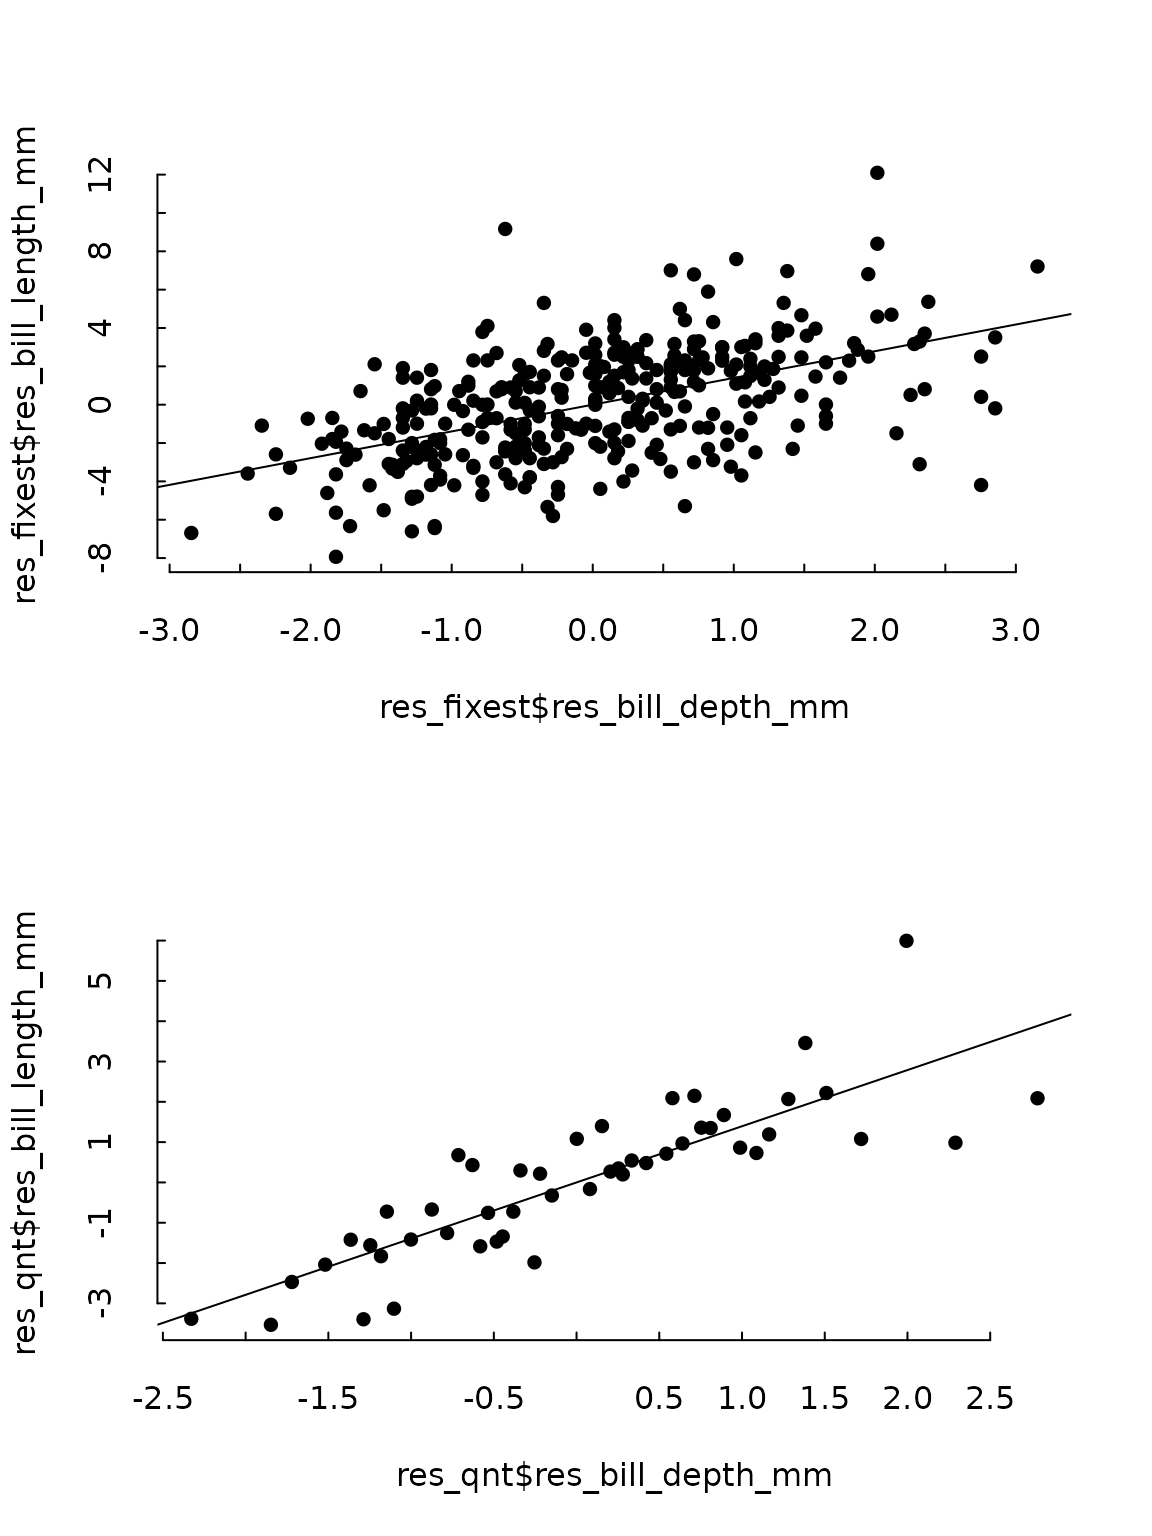
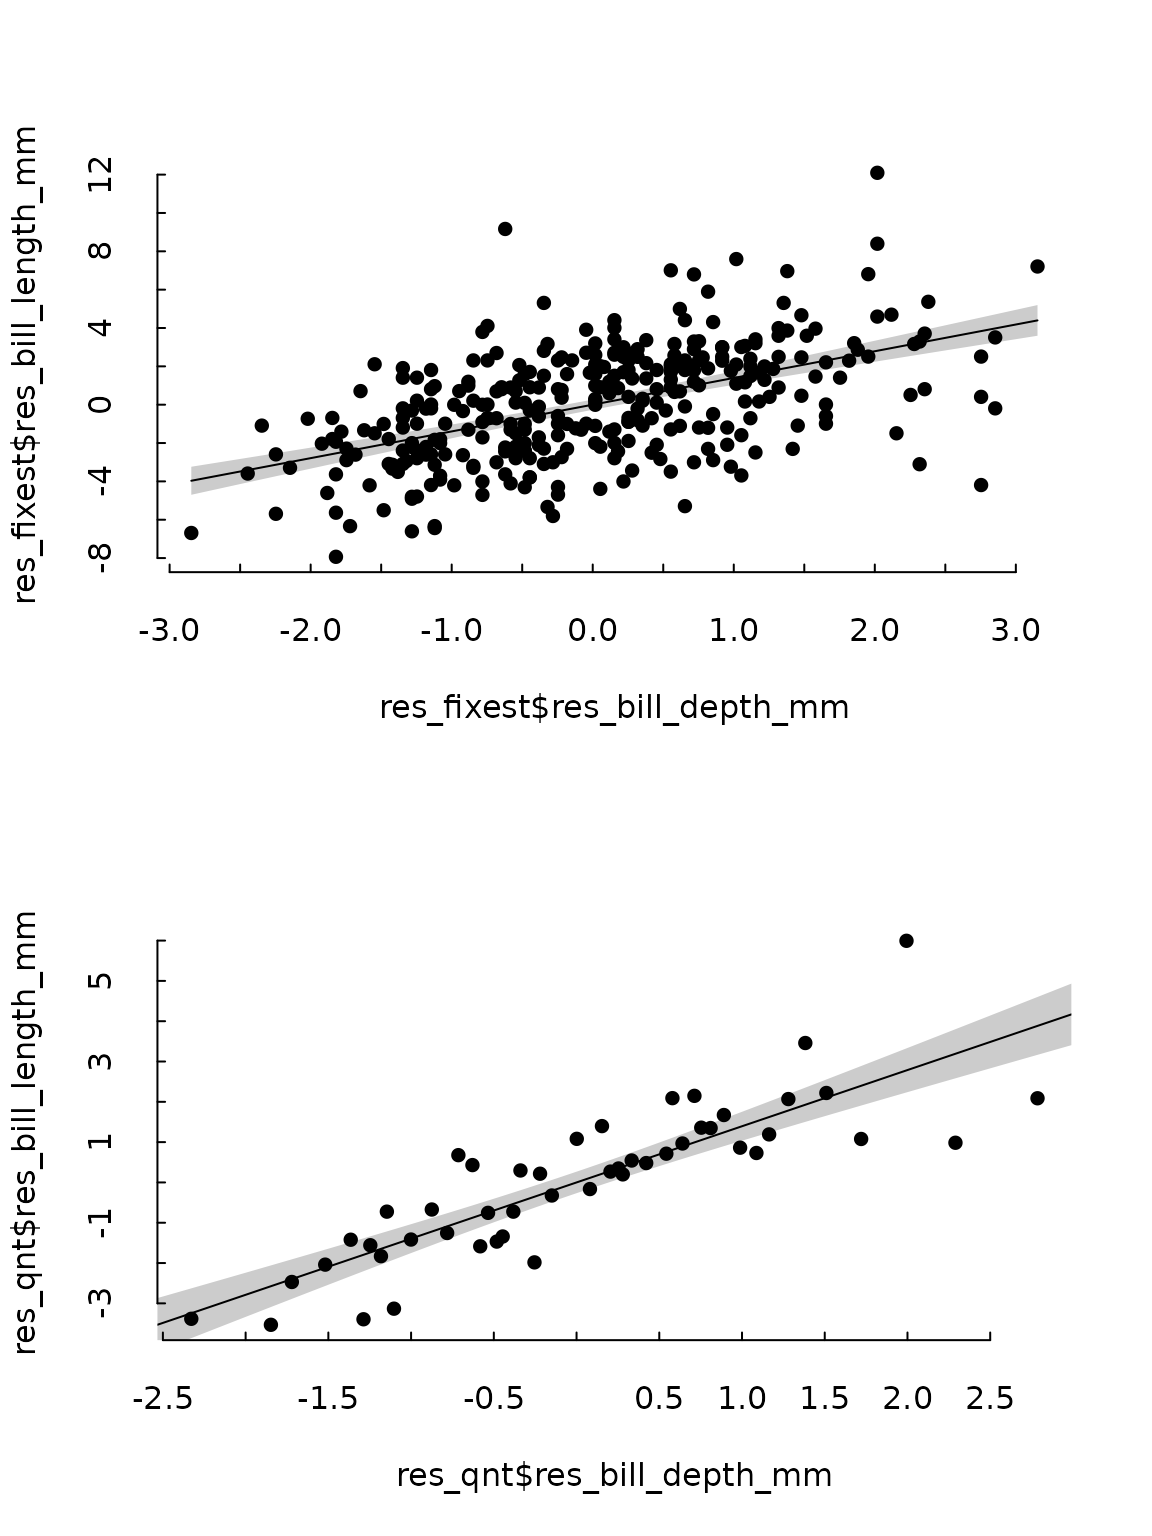
Deploying to gh-pages from @ marcboschmatas/partialling.out@54f5e9423f608f626608cb4d03b946a12f313515 🚀

diff --git a/articles/partialling_out.html b/articles/partialling_out.html
@@ -99,9 +99,9 @@
 <span><span class="co">#&gt; Multiple R-squared:  0.7892, Adjusted R-squared:  0.7874 </span></span>
 <span><span class="co">#&gt; F-statistic: 421.9 on 3 and 338 DF,  p-value: &lt; 2.2e-16</span></span></code></pre></div>
 <p>Using the <code>partialling_out</code> function, you can get the
-residualised variable of interest (bill length) and of the first
-explanatory variable (bill_length), i.e. it would return the residuals
-of the following two regressions.</p>
+residualised variable of interest (<code>bill_length_mm</code>) and of
+the first explanatory variable (<code>bill_depth_mm</code>), i.e. it
+would return the residuals of the following two regressions.</p>
 <div class="sourceCode" id="cb2"><pre class="downlit sourceCode r">
 <code class="sourceCode R"><span></span>
 <span><span class="va">modely</span> <span class="op">&lt;-</span> <span class="fu"><a href="https://rdrr.io/r/stats/lm.html" class="external-link">lm</a></span><span class="op">(</span><span class="va">bill_length_mm</span> <span class="op">~</span> <span class="va">species</span>, data <span class="op">=</span> <span class="va">penguins</span><span class="op">)</span></span>
@@ -110,7 +110,8 @@ of the following two regressions.</p>
 <div class="sourceCode" id="cb3"><pre class="downlit sourceCode r">
 <code class="sourceCode R"><span><span class="va">res</span> <span class="op">&lt;-</span> <span class="fu"><a href="../reference/partialling_out.html">partialling_out</a></span><span class="op">(</span><span class="va">model</span>, data <span class="op">=</span> <span class="va">penguins</span><span class="op">)</span></span>
 <span></span>
-<span><span class="fu"><a href="https://vincentarelbundock.github.io/tinytable/man/tt.html" class="external-link">tt</a></span><span class="op">(</span><span class="fu"><a href="https://rdrr.io/r/utils/head.html" class="external-link">head</a></span><span class="op">(</span><span class="va">res</span><span class="op">)</span><span class="op">)</span></span></code></pre></div>
+<span><span class="fu"><a href="https://vincentarelbundock.github.io/tinytable/man/tt.html" class="external-link">tt</a></span><span class="op">(</span><span class="fu"><a href="https://rdrr.io/r/utils/head.html" class="external-link">head</a></span><span class="op">(</span><span class="va">res</span><span class="op">)</span><span class="op">)</span> <span class="op">|&gt;</span></span>
+<span>  <span class="fu"><a href="https://vincentarelbundock.github.io/tinytable/man/format_tt.html" class="external-link">format_tt</a></span><span class="op">(</span>digits <span class="op">=</span> <span class="fl">2</span><span class="op">)</span></span></code></pre></div>
 <!-- preamble start -->
 
     <script>
@@ -189,28 +190,28 @@ of the following two regressions.</p>
               </tr></thead>
 <tbody>
 <tr>
-<td>0.3086093</td>
-                  <td>0.3536424</td>
+<td>0.31</td>
+                  <td>0.35</td>
                 </tr>
 <tr>
-<td>0.7086093</td>
-                  <td>-0.9463576</td>
+<td>0.71</td>
+                  <td>-0.95</td>
                 </tr>
 <tr>
-<td>1.5086093</td>
-                  <td>-0.3463576</td>
+<td>1.51</td>
+                  <td>-0.35</td>
                 </tr>
 <tr>
-<td>-2.0913907</td>
-                  <td>0.9536424</td>
+<td>-2.09</td>
+                  <td>0.95</td>
                 </tr>
 <tr>
-<td>0.5086093</td>
-                  <td>2.2536424</td>
+<td>0.51</td>
+                  <td>2.25</td>
                 </tr>
 <tr>
-<td>0.1086093</td>
-                  <td>-0.5463576</td>
+<td>0.11</td>
+                  <td>-0.55</td>
                 </tr>
 </tbody>
 </table>
@@ -229,7 +230,8 @@ original model.</p>
 <p>If <code>both</code> is set to <code>FALSE</code>, the function will
 return the actual Y values and the residualised X values.</p>
 <div class="sourceCode" id="cb5"><pre class="downlit sourceCode r">
-<code class="sourceCode R"><span><span class="fu"><a href="https://vincentarelbundock.github.io/tinytable/man/tt.html" class="external-link">tt</a></span><span class="op">(</span><span class="fu"><a href="https://rdrr.io/r/utils/head.html" class="external-link">head</a></span><span class="op">(</span><span class="fu"><a href="../reference/partialling_out.html">partialling_out</a></span><span class="op">(</span><span class="va">model</span>, <span class="va">penguins</span>, both <span class="op">=</span> <span class="cn">FALSE</span><span class="op">)</span><span class="op">)</span><span class="op">)</span></span></code></pre></div>
+<code class="sourceCode R"><span><span class="fu"><a href="https://vincentarelbundock.github.io/tinytable/man/tt.html" class="external-link">tt</a></span><span class="op">(</span><span class="fu"><a href="https://rdrr.io/r/utils/head.html" class="external-link">head</a></span><span class="op">(</span><span class="fu"><a href="../reference/partialling_out.html">partialling_out</a></span><span class="op">(</span><span class="va">model</span>, <span class="va">penguins</span>, both <span class="op">=</span> <span class="cn">FALSE</span><span class="op">)</span><span class="op">)</span><span class="op">)</span> <span class="op">|&gt;</span></span>
+<span>  <span class="fu"><a href="https://vincentarelbundock.github.io/tinytable/man/format_tt.html" class="external-link">format_tt</a></span><span class="op">(</span>digits <span class="op">=</span> <span class="fl">2</span><span class="op">)</span></span></code></pre></div>
 <!-- preamble start -->
 
     <script>
@@ -308,28 +310,28 @@ return the actual Y values and the residualised X values.</p>
               </tr></thead>
 <tbody>
 <tr>
-<td>39.1</td>
-                  <td>0.3536424</td>
+<td>39</td>
+                  <td>0.35</td>
                 </tr>
 <tr>
-<td>39.5</td>
-                  <td>-0.9463576</td>
+<td>40</td>
+                  <td>-0.95</td>
                 </tr>
 <tr>
-<td>40.3</td>
-                  <td>-0.3463576</td>
+<td>40</td>
+                  <td>-0.35</td>
                 </tr>
 <tr>
-<td>36.7</td>
-                  <td>0.9536424</td>
+<td>37</td>
+                  <td>0.95</td>
                 </tr>
 <tr>
-<td>39.3</td>
-                  <td>2.2536424</td>
+<td>39</td>
+                  <td>2.25</td>
                 </tr>
 <tr>
-<td>38.9</td>
-                  <td>-0.5463576</td>
+<td>39</td>
+                  <td>-0.55</td>
                 </tr>
 </tbody>
 </table>
@@ -348,7 +350,8 @@ return the actual Y values and the residualised X values.</p>
 <span>                      data <span class="op">=</span> <span class="va">penguins</span><span class="op">)</span></span>
 <span></span>
 <span><span class="va">res_fixest</span> <span class="op">&lt;-</span> <span class="fu"><a href="../reference/partialling_out.html">partialling_out</a></span><span class="op">(</span><span class="va">model_fixest</span>, data <span class="op">=</span> <span class="va">penguins</span><span class="op">)</span></span>
-<span><span class="fu"><a href="https://vincentarelbundock.github.io/tinytable/man/tt.html" class="external-link">tt</a></span><span class="op">(</span><span class="fu"><a href="https://rdrr.io/r/utils/head.html" class="external-link">head</a></span><span class="op">(</span><span class="va">res_fixest</span><span class="op">)</span><span class="op">)</span></span></code></pre></div>
+<span><span class="fu"><a href="https://vincentarelbundock.github.io/tinytable/man/tt.html" class="external-link">tt</a></span><span class="op">(</span><span class="fu"><a href="https://rdrr.io/r/utils/head.html" class="external-link">head</a></span><span class="op">(</span><span class="va">res_fixest</span><span class="op">)</span><span class="op">)</span> <span class="op">|&gt;</span></span>
+<span>  <span class="fu"><a href="https://vincentarelbundock.github.io/tinytable/man/format_tt.html" class="external-link">format_tt</a></span><span class="op">(</span>digits <span class="op">=</span> <span class="fl">2</span><span class="op">)</span></span></code></pre></div>
 <!-- preamble start -->
 
     <script>
@@ -427,28 +430,28 @@ return the actual Y values and the residualised X values.</p>
               </tr></thead>
 <tbody>
 <tr>
-<td>0.3086093</td>
-                  <td>0.3536424</td>
+<td>0.31</td>
+                  <td>0.35</td>
                 </tr>
 <tr>
-<td>0.7086093</td>
-                  <td>-0.9463576</td>
+<td>0.71</td>
+                  <td>-0.95</td>
                 </tr>
 <tr>
-<td>1.5086093</td>
-                  <td>-0.3463576</td>
+<td>1.51</td>
+                  <td>-0.35</td>
                 </tr>
 <tr>
-<td>-2.0913907</td>
-                  <td>0.9536424</td>
+<td>-2.09</td>
+                  <td>0.95</td>
                 </tr>
 <tr>
-<td>0.5086093</td>
-                  <td>2.2536424</td>
+<td>0.51</td>
+                  <td>2.25</td>
                 </tr>
 <tr>
-<td>0.1086093</td>
-                  <td>-0.5463576</td>
+<td>0.11</td>
+                  <td>-0.55</td>
                 </tr>
 </tbody>
 </table>
@@ -461,7 +464,10 @@ return the actual Y values and the residualised X values.</p>
 <span>                  data <span class="op">=</span> <span class="va">penguins</span><span class="op">)</span></span>
 <span></span>
 <span><span class="va">res_lfe</span> <span class="op">&lt;-</span> <span class="fu"><a href="../reference/partialling_out.html">partialling_out</a></span><span class="op">(</span><span class="va">model_lfe</span>, data <span class="op">=</span> <span class="va">penguins</span><span class="op">)</span></span>
-<span><span class="fu"><a href="https://vincentarelbundock.github.io/tinytable/man/tt.html" class="external-link">tt</a></span><span class="op">(</span><span class="fu"><a href="https://rdrr.io/r/utils/head.html" class="external-link">head</a></span><span class="op">(</span><span class="va">res_lfe</span><span class="op">)</span><span class="op">)</span></span></code></pre></div>
+<span></span>
+<span></span>
+<span><span class="fu"><a href="https://vincentarelbundock.github.io/tinytable/man/tt.html" class="external-link">tt</a></span><span class="op">(</span><span class="fu"><a href="https://rdrr.io/r/utils/head.html" class="external-link">head</a></span><span class="op">(</span><span class="va">res_lfe</span><span class="op">)</span><span class="op">)</span> <span class="op">|&gt;</span></span>
+<span>  <span class="fu"><a href="https://vincentarelbundock.github.io/tinytable/man/format_tt.html" class="external-link">format_tt</a></span><span class="op">(</span>digits <span class="op">=</span> <span class="fl">2</span><span class="op">)</span></span></code></pre></div>
 <!-- preamble start -->
 
     <script>
@@ -540,28 +546,28 @@ return the actual Y values and the residualised X values.</p>
               </tr></thead>
 <tbody>
 <tr>
-<td>0.3086093</td>
-                  <td>0.3536424</td>
+<td>0.31</td>
+                  <td>0.35</td>
                 </tr>
 <tr>
-<td>0.7086093</td>
-                  <td>-0.9463576</td>
+<td>0.71</td>
+                  <td>-0.95</td>
                 </tr>
 <tr>
-<td>1.5086093</td>
-                  <td>-0.3463576</td>
+<td>1.51</td>
+                  <td>-0.35</td>
                 </tr>
 <tr>
-<td>-2.0913907</td>
-                  <td>0.9536424</td>
+<td>-2.09</td>
+                  <td>0.95</td>
                 </tr>
 <tr>
-<td>0.5086093</td>
-                  <td>2.2536424</td>
+<td>0.51</td>
+                  <td>2.25</td>
                 </tr>
 <tr>
-<td>0.1086093</td>
-                  <td>-0.5463576</td>
+<td>0.11</td>
+                  <td>-0.55</td>
                 </tr>
 </tbody>
 </table>
@@ -578,10 +584,10 @@ binned.</p>
 <span><span class="fu"><a href="https://rdrr.io/pkg/tinyplot/man/tinytheme.html" class="external-link">tinytheme</a></span><span class="op">(</span><span class="st">"tufte"</span><span class="op">)</span></span>
 <span><span class="fu"><a href="https://rdrr.io/r/graphics/par.html" class="external-link">par</a></span><span class="op">(</span>mfrow <span class="op">=</span> <span class="fu"><a href="https://rdrr.io/r/base/c.html" class="external-link">c</a></span><span class="op">(</span><span class="fl">2</span>, <span class="fl">1</span><span class="op">)</span><span class="op">)</span></span>
 <span></span>
-<span><span class="va">resmodel</span> <span class="op">&lt;-</span> <span class="fu"><a href="https://rdrr.io/r/stats/lm.html" class="external-link">lm</a></span><span class="op">(</span><span class="va">res_bill_length_mm</span> <span class="op">~</span>  <span class="va">res_bill_depth_mm</span>,</span>
-<span>               data <span class="op">=</span> <span class="va">res_fixest</span><span class="op">)</span></span>
-<span><span class="fu"><a href="https://rdrr.io/pkg/tinyplot/man/tinyplot.html" class="external-link">tinyplot</a></span><span class="op">(</span><span class="va">res_fixest</span><span class="op">$</span><span class="va">res_bill_depth_mm</span>,</span>
-<span>         <span class="va">res_fixest</span><span class="op">$</span><span class="va">res_bill_length_mm</span><span class="op">)</span>; <span class="fu"><a href="https://rdrr.io/r/graphics/abline.html" class="external-link">abline</a></span><span class="op">(</span><span class="va">resmodel</span><span class="op">)</span></span>
+<span></span>
+<span><span class="fu"><a href="https://rdrr.io/pkg/tinyplot/man/tinyplot.html" class="external-link">tinyplot</a></span><span class="op">(</span><span class="va">res_fixest</span><span class="op">$</span><span class="va">res_bill_length_mm</span> <span class="op">~</span> <span class="va">res_fixest</span><span class="op">$</span><span class="va">res_bill_depth_mm</span><span class="op">)</span></span>
+<span><span class="fu"><a href="https://rdrr.io/pkg/tinyplot/man/tinyplot_add.html" class="external-link">tinyplot_add</a></span><span class="op">(</span><span class="va">res_fixest</span><span class="op">$</span><span class="va">res_bill_length_mm</span> <span class="op">~</span> <span class="va">res_fixest</span><span class="op">$</span><span class="va">res_bill_depth_mm</span>,</span>
+<span>             type <span class="op">=</span> <span class="st">"lm"</span><span class="op">)</span></span>
 <span></span>
 <span><span class="va">res_fixest</span><span class="op">$</span><span class="va">qnt</span> <span class="op">&lt;-</span> <span class="fu"><a href="https://rdrr.io/r/base/cut.html" class="external-link">cut</a></span><span class="op">(</span><span class="va">res_fixest</span><span class="op">$</span><span class="va">res_bill_depth_mm</span>,</span>
 <span>                      breaks <span class="op">=</span> <span class="fu"><a href="https://rdrr.io/r/stats/quantile.html" class="external-link">quantile</a></span><span class="op">(</span><span class="va">res_fixest</span><span class="op">$</span><span class="va">res_bill_depth_mm</span>,</span>
@@ -592,8 +598,9 @@ binned.</p>
 <span><span class="va">res_qnt</span> <span class="op">&lt;-</span> <span class="fu"><a href="https://rdrr.io/r/stats/aggregate.html" class="external-link">aggregate</a></span><span class="op">(</span><span class="fu"><a href="https://rdrr.io/r/base/cbind.html" class="external-link">cbind</a></span><span class="op">(</span><span class="va">res_bill_depth_mm</span>, <span class="va">res_bill_length_mm</span><span class="op">)</span> <span class="op">~</span> <span class="va">qnt</span>,</span>
 <span>                     data <span class="op">=</span> <span class="va">res_fixest</span>, FUN <span class="op">=</span> <span class="va">mean</span><span class="op">)</span></span>
 <span></span>
-<span><span class="fu"><a href="https://rdrr.io/pkg/tinyplot/man/tinyplot.html" class="external-link">tinyplot</a></span><span class="op">(</span><span class="va">res_qnt</span><span class="op">$</span><span class="va">res_bill_depth_mm</span>,</span>
-<span>         <span class="va">res_qnt</span><span class="op">$</span><span class="va">res_bill_length_mm</span><span class="op">)</span>; <span class="fu"><a href="https://rdrr.io/r/graphics/abline.html" class="external-link">abline</a></span><span class="op">(</span><span class="va">resmodel</span><span class="op">)</span></span></code></pre></div>
+<span><span class="fu"><a href="https://rdrr.io/pkg/tinyplot/man/tinyplot.html" class="external-link">tinyplot</a></span><span class="op">(</span><span class="va">res_qnt</span><span class="op">$</span><span class="va">res_bill_length_mm</span> <span class="op">~</span> <span class="va">res_qnt</span><span class="op">$</span><span class="va">res_bill_depth_mm</span><span class="op">)</span></span>
+<span><span class="fu"><a href="https://rdrr.io/pkg/tinyplot/man/tinyplot_add.html" class="external-link">tinyplot_add</a></span><span class="op">(</span><span class="va">res_fixest</span><span class="op">$</span><span class="va">res_bill_length_mm</span> <span class="op">~</span> <span class="va">res_fixest</span><span class="op">$</span><span class="va">res_bill_depth_mm</span>,</span>
+<span>             type <span class="op">=</span> <span class="st">"lm"</span><span class="op">)</span></span></code></pre></div>
 <p><img src="partialling_out_files/figure-html/unnamed-chunk-9-1.png" width="576"></p>
 <p>Plotting all residuals is equivalent to the following approach in
 <code>fwlplot</code></p>

diff --git a/index.html b/index.html
@@ -57,7 +57,7 @@
 </h1></div>
 <!-- badges: start -->
 
-<p>Partialling out is a package that allows to generate residualised variables of already existing linear or fixed effects models. So far it works with <code>lm</code>, <code>felm</code> (<code>lfe</code>package) and <code>feols</code> (<code>fixest</code> package) following the Frisch-Waugh-Lovell theorem, as explained in Lovell (<a href="doi:10.3200/JECE.39.1.88-91">2008</a>). Whereas this algorithm has already been implemented in [<code>fwlplot</code>]((<a href="https://github.com/kylebutts/fwlplot" class="external-link uri">https://github.com/kylebutts/fwlplot</a>), this package offers three new characteristics.</p>
+<p>Partialling out is a package that allows to generate residualised variables of already existing linear or fixed effects models. So far it works with <code>lm</code>, <code>felm</code> (<code>lfe</code>package) and <code>feols</code> (<code>fixest</code> package) following the Frisch-Waugh-Lovell theorem, as explained in Lovell (<a href="doi:10.3200/JECE.39.1.88-91">2008</a>). Whereas this algorithm has already been implemented in <a href="https://github.com/kylebutts/fwlplot" class="external-link"><code>fwlplot</code></a>, this package offers three new characteristics.</p>
 <ul>
 <li><p>It uses an already existing model instead of a formula.</p></li>
 <li><p>Works with <code>lm</code> and <code>felm</code> objects alongside <code>feols</code>.</p></li>
